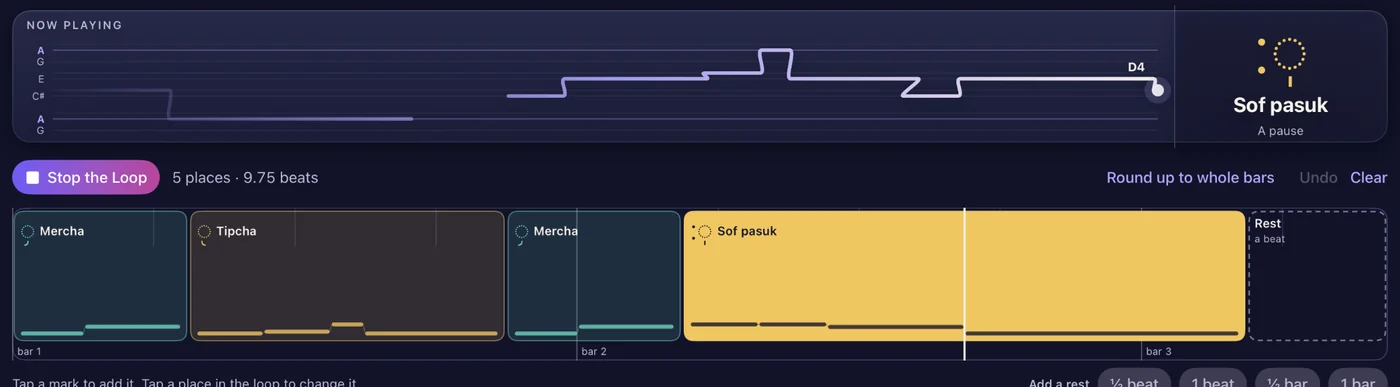
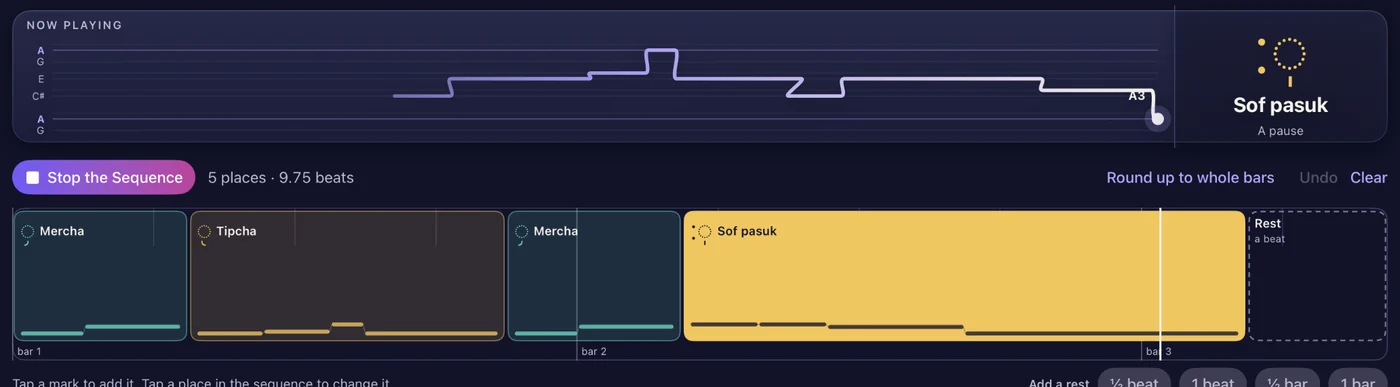
Pads, Sequence, Torah verses

diff --git a/index.html b/index.html
@@ -36,38 +36,38 @@
       <a class="store-badge" data-store-live hidden href="#" aria-label="Download Torah Tones on the App Store"><picture><source srcset="img/app-store-badge-white.svg" media="(prefers-color-scheme: dark)"><img src="img/app-store-badge-black.svg" alt="Download on the App Store" width="132" height="44"></picture></a>
       <span class="soon" data-store-soon>Coming to the App Store</span>
   </div>
-  <div class="hero-shot"><img src="img/hero-ipad.webp?v=3" alt="Torah Tones on iPad: a loop of four phrases playing, with the 25 phrase pads below" width="1600" height="1250"></div>
+  <div class="hero-shot"><img src="img/hero-ipad.webp?v=4" alt="Torah Tones on iPad: a sequence of phrases playing, with the 25 phrase pads below" width="1600" height="1250"></div>
 </section>
 
 <div id="features"></div>
 <section class="feature violet">
   <div class="text"><p class="label">Phrase pads</p><h2>25 phrases. One pad, one key each.</h2><p>Every pad fires a short melodic phrase, with its shape drawn right on the pad. Play them from the screen or from your keyboard, starting at C3, one key per phrase. Chain a few and they queue up in time, so a handful of keys plays a whole line.</p><ul><li>Phrases wait their turn, or cut each other off</li><li>The next phrase can start right away, on the next beat, or on the next bar line</li><li>Hold a key to sustain the phrase's first note, then let go for the rest</li><li>41 ready-made example lines, one tap each</li></ul></div>
-  <div class="pic"><img src="img/play-pads.webp?v=3" alt="The 25 phrase pads, grouped by family, with Sof pasuk playing" loading="lazy" width="1400" height="727"></div>
+  <div class="pic"><img src="img/play-pads.webp?v=4" alt="The 25 phrase pads, grouped by family, with Sof pasuk playing" loading="lazy" width="1400" height="727"></div>
 </section>
 
 <section class="feature gold flip">
   <div class="text"><p class="label">Any key, any mode</p><h2>Change key mid-take. Every phrase follows.</h2><p>Each phrase is stored as scale steps, not fixed notes, so it re-sings itself in whatever key and mode you choose: Major, Minor, Dorian, Lydian, Harmonic Minor, the traditional sound, and two Jewish prayer modes with an exotic flat 2nd, Ahavah Rabbah and Mi Sheberach.</p><ul><li>Change key live with your left hand: one note sets the root, a chord sets major or minor too</li><li>Add a harmony line inside the mode, on its own MIDI channel</li><li>A drone on the root and fifth that follows every key change</li></ul></div>
-  <div class="pic"><img src="img/key.webp?v=3" alt="The key wheel, with A Ahavah Rabbah chosen" loading="lazy" width="1400" height="845"></div>
+  <div class="pic"><img src="img/key.webp?v=4" alt="The key wheel, with A Ahavah Rabbah chosen" loading="lazy" width="1400" height="845"></div>
 </section>
 
 <section class="feature pink">
-  <div class="text"><p class="label">Loop</p><h2>Build a loop in a few taps</h2><p>Tap phrases and rests to lay out a loop, then let it run with your host's transport, locked to its bars. It starts over the moment its last note ends, or rounds up to whole bars if you'd rather.</p><ul><li>Rests from half a beat to a bar</li><li>Tap any slot to move it, hear it, swap it or remove it</li></ul></div>
-  <div class="pic"><img src="img/loop.webp?v=3" alt="A loop of Mercha, Tipcha, Mercha, Sof pasuk and a rest, playing" loading="lazy" width="1400" height="387"></div>
+  <div class="text"><p class="label">Sequence</p><h2>Build a sequence in a few taps</h2><p>Tap phrases and rests to lay out a sequence, then let it loop with your host's transport, locked to its bars. It starts over the moment its last note ends, or rounds up to whole bars if you'd rather.</p><ul><li>Rests from half a beat to a bar</li><li>Tap any slot to move it, hear it, swap it or remove it</li></ul></div>
+  <div class="pic"><img src="img/loop.webp?v=4" alt="A sequence of Mercha, Tipcha, Mercha, Sof pasuk and a rest, playing" loading="lazy" width="1400" height="387"></div>
 </section>
 
 <section class="feature teal flip">
   <div class="text"><p class="label">Feel</p><h2>Played, not programmed</h2><p>Humanize the timing, velocity and note lengths. Add rubato that leans into the end of each phrase, and grace notes like a singer's. Flip phrases upside down or play them backwards, at half or double speed, for variations that still sound like they belong.</p></div>
-  <div class="pic narrow"><img src="img/feel.webp?v=3" alt="The Feel settings: timing, humanize and melody shape" loading="lazy" width="1000" height="1202"></div>
+  <div class="pic narrow"><img src="img/feel.webp?v=4" alt="The Feel settings: timing, humanize and melody shape" loading="lazy" width="1000" height="1202"></div>
 </section>
 
 <section class="feature gold">
   <div class="text"><p class="label">The source</p><h2>Or play the real thing: any verse of the Torah</h2><p>Pick a book, chapter and verse, and Torah Tones sends the actual chanted passage as MIDI, word by word, each phrase fitted to its syllables, while the Hebrew lights up as it goes. Play it all in time, step through it one word per key press, or loop it on your bar line.</p><ul><li>All Five Books, by chapter and verse or by weekly portion</li><li>English under every verse</li></ul></div>
-  <div class="pic"><img src="img/verses.webp?v=3" alt="Genesis 1:1 to 1:3 being sent as MIDI, one word lit" loading="lazy" width="1400" height="634"></div>
+  <div class="pic"><img src="img/verses.webp?v=4" alt="Genesis 1:1 to 1:3 being sent as MIDI, one word lit" loading="lazy" width="1400" height="634"></div>
 </section>
 
 <section class="feature violet flip">
   <div class="text"><p class="label">New to trope?</p><h2>What you're playing</h2><p>Almost every word of the Hebrew Bible carries a tiny mark called a trope, and each mark stands for a short melody. Chanted in a row, they turn the text into music, and synagogues have sung them this way for well over a thousand years. Learn Trope explains it in seven short steps, with a button to hear every mark.</p><p>Want to learn to chant it yourself? <a href="https://torahturnit.com/">Torah: Turn It</a>, from the same maker, teaches it lesson by lesson.</p></div>
-  <div class="pic narrow"><img src="img/learn.webp?v=3" alt="The Learn Trope page" loading="lazy" width="1000" height="1202"></div>
+  <div class="pic narrow"><img src="img/learn.webp?v=4" alt="The Learn Trope page" loading="lazy" width="1000" height="1202"></div>
 </section>
 
 <section class="hosts">

diff --git a/support.html b/support.html
@@ -38,11 +38,11 @@
     <dt>Which apps can host it?</dt>
     <dd>Any app that hosts AUv3 MIDI effects on iPad, including AUM, Logic Pro for iPad, Loopy Pro, Cubasis and Drambo. GarageBand doesn't host MIDI effects.</dd>
     <dt>Which keys play which marks?</dt>
-    <dd>The 25 marks run up from C3, one per key (Show Keys on the Play page labels the pads; MIDI Setup moves the starting key, or learns it from your keyboard). Keys below that are your left hand.</dd>
+    <dd>The 25 marks run up from C3, one per key (Show Keys on the Pads page labels the pads; MIDI Setup moves the starting key, or learns it from your keyboard). Keys below that are your left hand.</dd>
     <dt>How do I change the key while I play?</dt>
     <dd>Use the home note arrows at the top, or play with your left hand: one key sets the home note, and a chord can set major or minor too (MIDI Setup › Left hand).</dd>
     <dt>Why does Etnachta play three notes on one pad and two on another setting?</dt>
-    <dd>A mark's tune depends on the word: one steady note for each syllable before the accent, then the melody. “Before the accent” on the Play page chooses: as on the mark's own name (et-nach-ta), none, or one to three.</dd>
+    <dd>A mark's tune depends on the word: one steady note for each syllable before the accent, then the melody. “Before the accent” on the Pads page chooses: as on the mark's own name (et-nach-ta), none, or one to three.</dd>
     <dt>Can it follow my song's tempo?</dt>
     <dd>Yes. In a host it follows the host's tempo and bars. Feel › Next melody starts can make each melody wait for the next beat or bar line.</dd>
     <dt>Which trope does it use?</dt>
